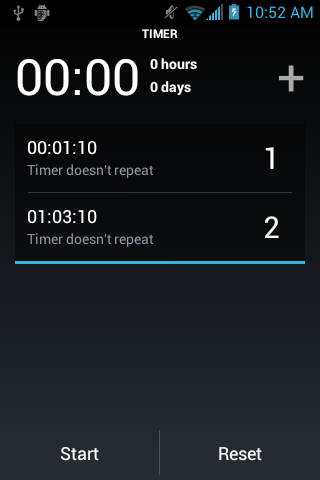
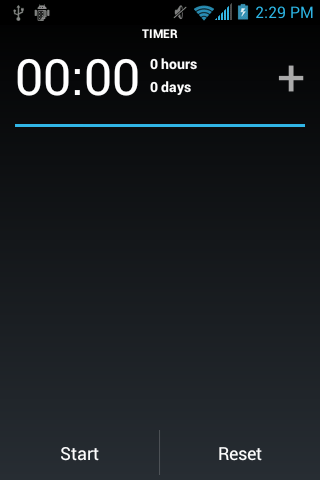
fixing failing scenarios

diff --git a/features/step_definitions/calabash_steps.rb b/features/step_definitions/calabash_steps.rb
@@ -39,17 +39,21 @@ Then /^the lap record will( not)? have matching times for lap time and total tim
 end
 
 And /^I set the NumberPickers to (\d+ hours), (\d+ minutes), and (\d+ seconds)$/ do |hours, minutes, seconds|
-	setAmountOf(hours, 25)
-	setAmountOf(minutes, 50)
-	setAmountOf(seconds, 75)
+  setAmountOf(hours, 25, 25)
+	setAmountOf(minutes, 50, 25)
+	setAmountOf(seconds, 75, 25)
 end
 
 And /^I clear the timers$/ do
-	performAction('press_long_on_text', 'Reset')
+	performAction('long_press_on_view_by_id', 'clear_timer')
 end
 
-Then /^I will( not)? see "([^\"]*)" on the timer screen$/ do |negate, saved_timer|
+Then /^I will see "([^\"]*)" on the timer screen$/ do |saved_timer|
   time_found = query("listview textview index:1").first["text"]
-  negate ? saved_timer.should_not == time_found : saved_timer.should == time_found
+  saved_timer.should == time_found
+end
+
+Then /^I will not see "([^\"]*)" on the timer screen$/ do |saved_timer|
+  query("listview textview").length.should == 0
 end
 

diff --git a/features/support/helper_methods.rb b/features/support/helper_methods.rb
@@ -7,10 +7,11 @@ def stopwatch_is_running?
 	end
 end
 
-def setAmountOf(time, at_this_location)
-	if time > 0
+def setAmountOf(time, percent_from_left, percent_from_top)
+	
+  if time > 0
 		for i in 1..time
-			performAction('click_on_screen', at_this_location, 25)
+			performAction('click_on_screen', percent_from_left, percent_from_top)
 		end
 	end
 end
